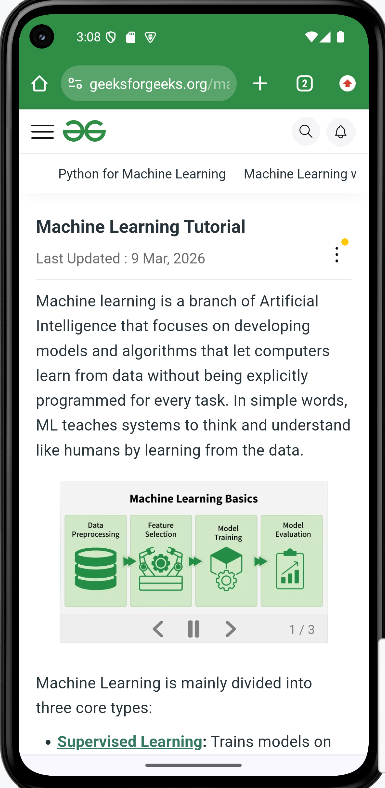
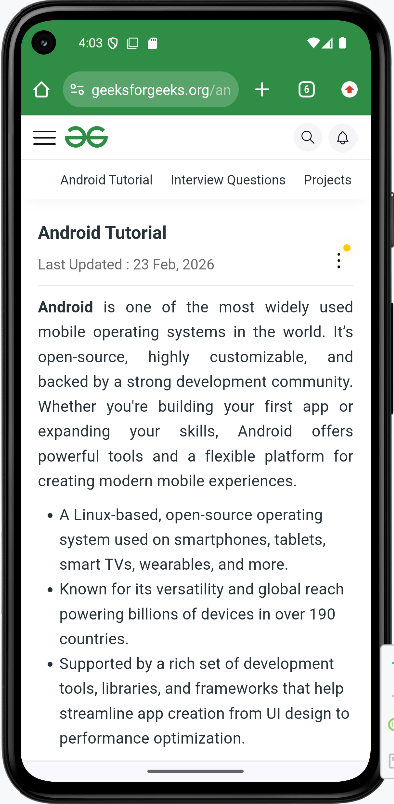
More updates: UI improved

diff --git a/README.md b/README.md
@@ -41,7 +41,7 @@ A modern Android Guide App built using **kotlin and XML** that helps users explo
 * Clone the repository:
 
 ```
-git clone https://github.com/your-username/GirjendraGuideApp.git
+git clone https://github.com/Girjendra/GirjendraGuideApp
 ```
 
 * Open in Android Studio